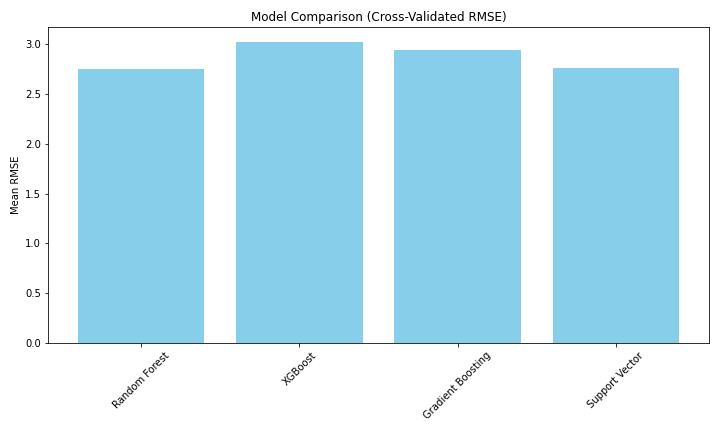
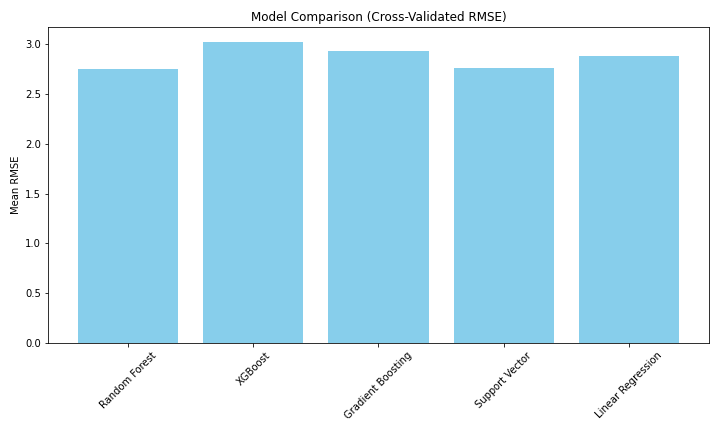
update0.1

diff --git a/main.py b/main.py
@@ -34,7 +34,8 @@ def run_pipeline():
         "Random Forest": RandomForestModel(),
         "XGBoost": XGBoostModel(),
         "Gradient Boosting": GradientBoostingModel(),
-        "Support Vector": SupportVectorModel()
+        "Support Vector": SupportVectorModel(),
+        "Linear Regression": LinearRegressionModel()
     }
 
     best_models = {}
@@ -83,6 +84,8 @@ def run_pipeline():
             plt.title(f"SHAP Summary Plot: {name}")
             # plt.savefig(f"plots/shap_{name.lower().replace(' ', '_')}.png")
             plt.close()
+
+
 
     # Plot comparison of models
     plt.figure(figsize=(10, 6))

diff --git a/README.md b/README.md
@@ -1,0 +1,77 @@
+Demand Forecasting for Pizza Sales using Machine Learning
+🧠 Introduction
+
+Effective demand forecasting is crucial for businesses in the food and beverage industry. By anticipating future sales, businesses can optimize inventory, reduce waste, and enhance profitability. This project explores machine learning models to predict daily pizza sales for different pizza types using a real dataset from a fictional pizzeria. The primary goal is to identify the most accurate and interpretable model for demand forecasting.
+📚 Literature Review
+
+Demand forecasting using machine learning has gained momentum in recent years. Traditional linear models such as Linear Regression offer simplicity and interpretability but may fall short in capturing non-linear trends and complex interactions.
+
+Tree-based ensemble methods like Random Forest, XGBoost, and Gradient Boosting have demonstrated strong performance in structured datasets due to their ability to model non-linearities and interactions automatically. On the other hand, Support Vector Regression (SVR), while powerful in high-dimensional spaces, can sometimes be sensitive to parameter tuning and input scaling.
+
+Model interpretability is also critical. Tree-based models can be analyzed using SHAP (SHapley Additive exPlanations) values, which help visualize how individual features influence predictions, adding transparency to model decisions.
+🧪 Methodology
+🔧 Data Pipeline
+
+    Dataset: Daily pizza sales from a fictional pizzeria.
+
+    Preprocessing: Temporal features were extracted, and each pizza type was modeled individually.
+
+    Train-Test Split: The data was split using a time-based approach to preserve the chronological order.
+
+🔬 Models Compared
+
+The following models were implemented and compared:
+
+    LinearRegressionModel: A basic linear approach.
+
+    SupportVectorModel: SVR with RBF kernel.
+
+    RandomForestModel: Bagging ensemble of decision trees.
+
+    XGBoostModel: Gradient boosting framework optimized for performance.
+
+    GradientBoostingModel: A traditional implementation of gradient boosting.
+
+🛠 Hyperparameter Tuning
+
+Each model (where applicable) was tuned using RandomizedSearchCV with 5-fold cross-validation, optimizing for Root Mean Squared Error (RMSE).
+📈 Evaluation Metrics
+
+Models were evaluated using:
+
+    RMSE (Root Mean Squared Error)
+
+    MAE (Mean Absolute Error)
+
+    MAPE (Mean Absolute Percentage Error)
+
+Additionally, SHAP values were used to interpret feature contributions for tree-based models.
+📊 Results
+Model	CV RMSE	Test RMSE	MAE	MAPE (%)
+Random Forest	2.75	2.93	2.28	51.14
+XGBoost	3.02	3.19	2.43	53.44
+Gradient Boosting	2.93	3.02	2.31	51.76
+Support Vector	2.76	3.04	2.35	52.93
+Linear Regression	2.88	3.02	2.27	53.36
+🏆 Best Performing Model
+
+    Random Forest had the lowest RMSE and MAE overall, making it the most accurate model in this experiment.
+
+🔍 Interpretability with SHAP
+
+SHAP plots were generated for tree-based models (Random Forest, XGBoost, and Gradient Boosting). These visualizations highlighted the most influential features on model predictions, enhancing transparency and trust in model behavior.
+
+Example:
+(Assumes plot is generated and saved correctly)
+✅ Conclusion & Next Steps
+
+This project demonstrates the feasibility and value of using machine learning models for sales demand forecasting. Among all tested models, Random Forest showed the best balance between performance and interpretability.
+🚀 Future Improvements
+
+    Add seasonal decomposition or exogenous variables (e.g., holidays, weather).
+
+    Explore deep learning approaches like LSTM for temporal dependencies.
+
+    Implement automated retraining pipelines for production use.
+
+    Compare results using probabilistic forecasting models (e.g., Prophet, NGBoost).
